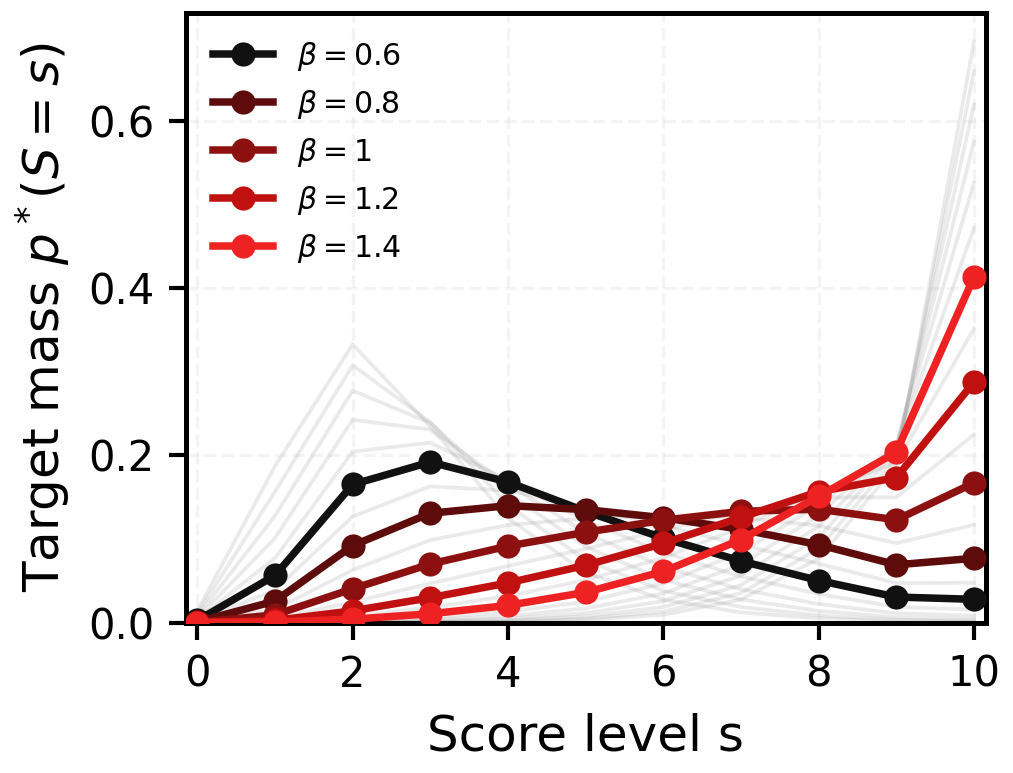
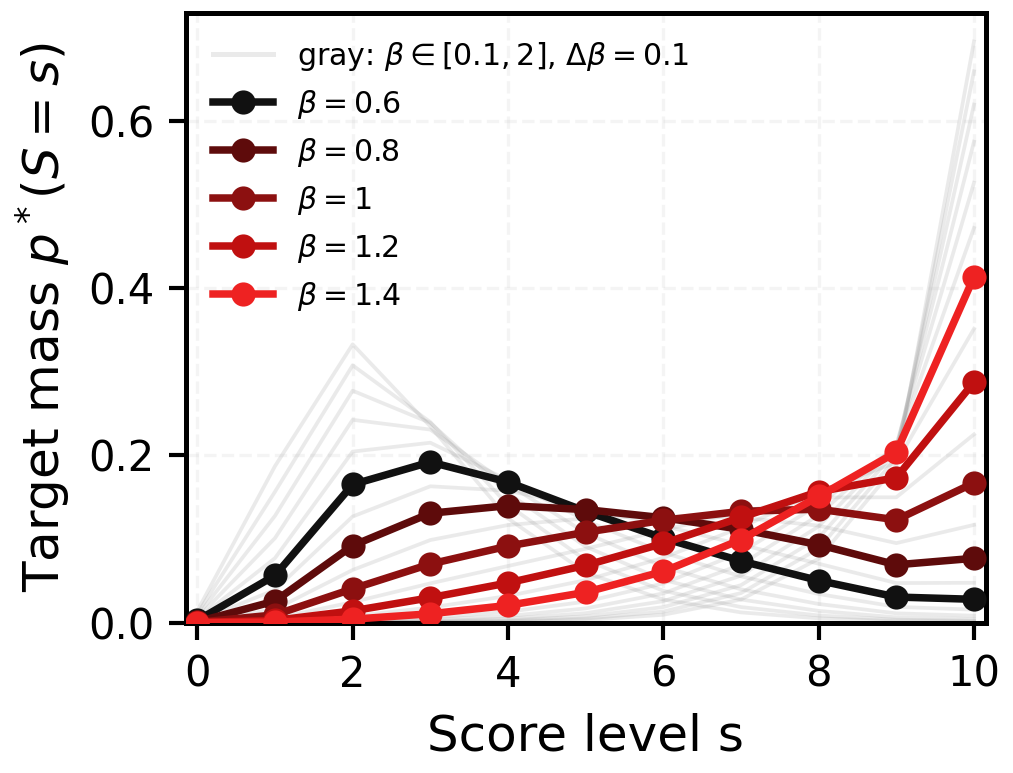
Update Fig1 legend with gray beta range and rerender

diff --git a/experiments/final_scripts/plot_target_sharpness_beta_sweep.py b/experiments/final_scripts/plot_target_sharpness_beta_sweep.py
@@ -20,6 +20,7 @@ import numpy as np
 import os
 os.environ.setdefault("MPLBACKEND", "Agg")
 import matplotlib.pyplot as plt  # noqa: E402
+from matplotlib.lines import Line2D  # noqa: E402
 
 ROOT = Path(__file__).resolve().parents[2]
 
@@ -164,6 +165,15 @@ def main() -> None:
 
     legend_handles = []
     legend_labels = []
+    gray_label = (
+        fr"gray: $\beta \in [{args.bg_beta_min:g}, {args.bg_beta_max:g}]$"
+        fr", $\Delta\beta={args.bg_beta_step:g}$"
+    )
+    legend_handles.append(
+        Line2D([0], [0], color=str(args.bg_color), linewidth=1.2, alpha=float(args.bg_alpha))
+    )
+    legend_labels.append(gray_label)
+
     for i, b in enumerate(highlight):
         c = curves[float(b)]
         line, = ax.plot(
